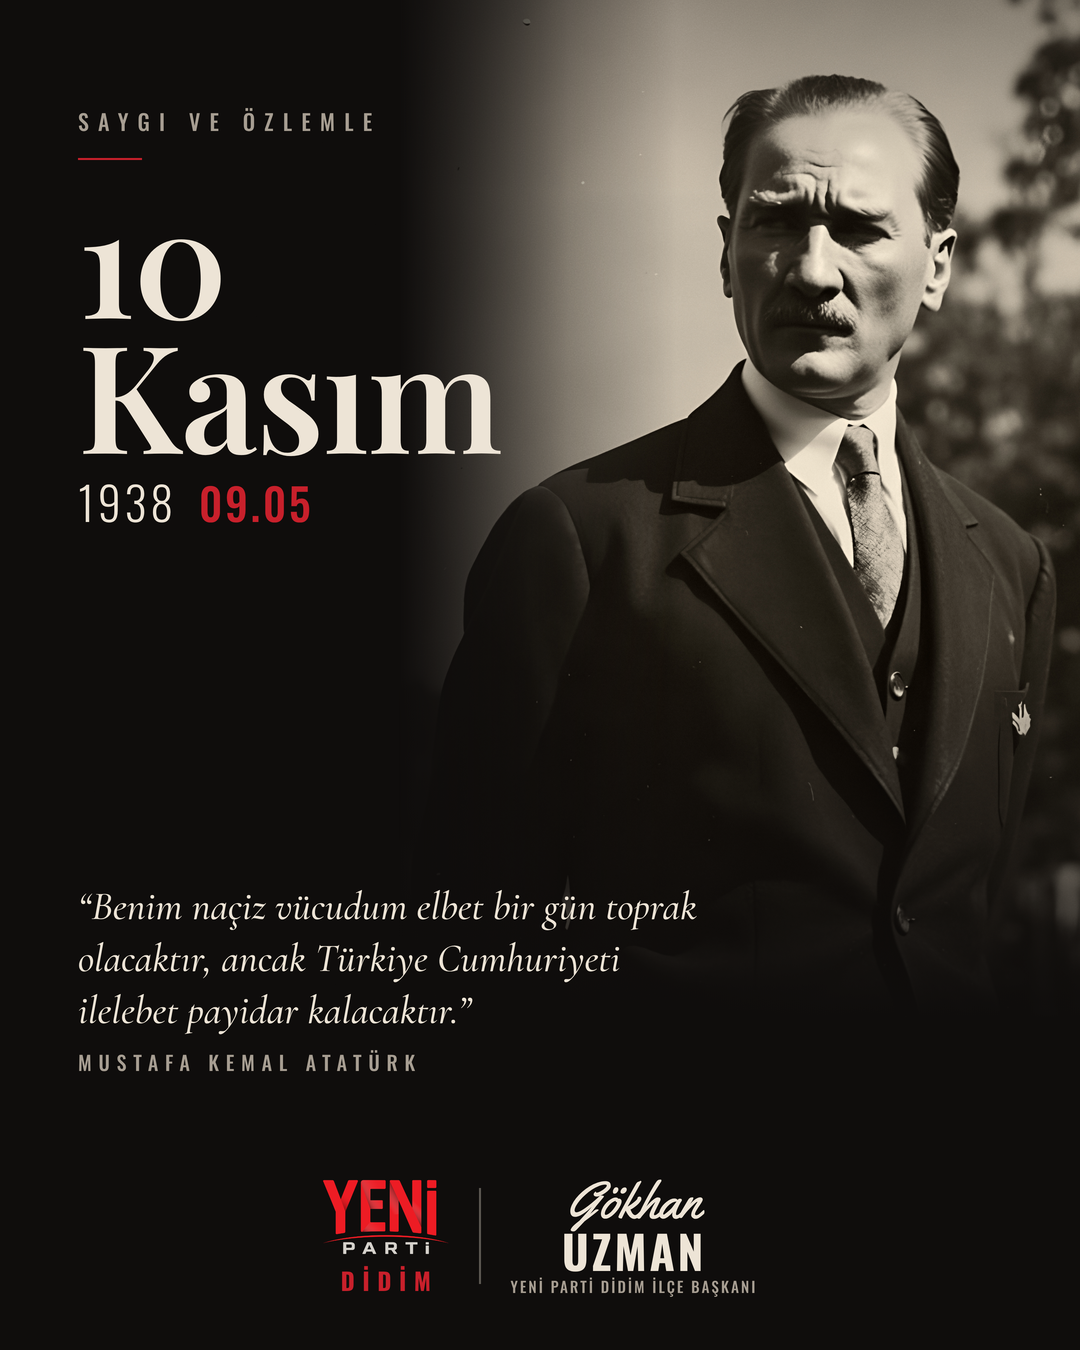
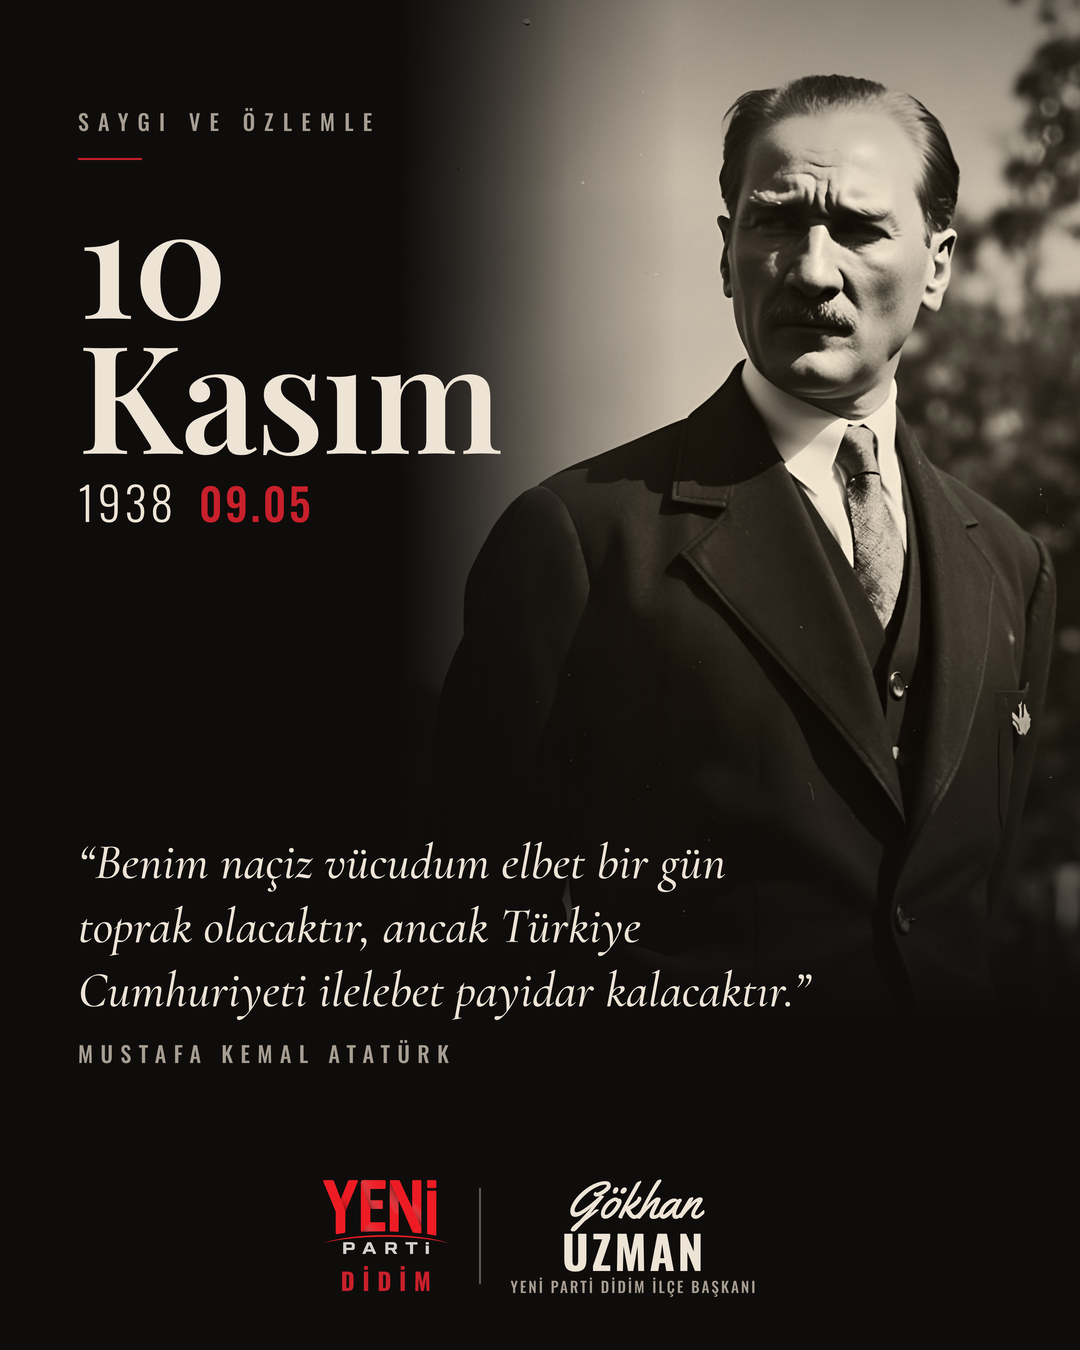
10 Kasım: Atatürk'ün sözü büyütüldü
Claude-Session: https://claude.ai/code/session_01SatttGbgBLoCnk9KGLypWv

Changed region(s): [[0.0611, 0.6222, 0.7333, 0.8089]]

diff --git a/tasarim/kisisel/10-kasim/anma.html b/tasarim/kisisel/10-kasim/anma.html
@@ -21,8 +21,8 @@ html,body{margin:0;width:1080px;height:1350px;overflow:hidden;background:#0E0C0B
 .tarih{font:150px/.9 PF;color:var(--krem);letter-spacing:-.01em}
 .yil{margin-top:18px;display:flex;align-items:baseline;gap:22px;font:46px/1 O3;color:var(--krem);letter-spacing:.08em}
 .yil b{font:44px/1 O5;color:var(--kir);font-weight:normal;letter-spacing:.06em}
-.soz{position:absolute;left:78px;top:880px;width:640px;font:40px/1.3 CG;color:var(--krem)}
-.soz small{display:block;margin-top:16px;font:20px/1 O5;letter-spacing:.34em;color:var(--gri);font-style:normal}
+.soz{position:absolute;left:78px;top:830px;width:760px;font:50px/1.28 CG;color:var(--krem)}
+.soz small{display:block;margin-top:20px;font:22px/1 O5;letter-spacing:.34em;color:var(--gri);font-style:normal}
 .metin{position:absolute;left:78px;top:1010px;width:900px;font:23px/1.5 IN;color:#C9C0B4}
 .imza{position:absolute;left:0;right:0;bottom:56px;display:flex;justify-content:center;align-items:center;gap:30px}
 .logo{display:flex;flex-direction:column;align-items:center}
